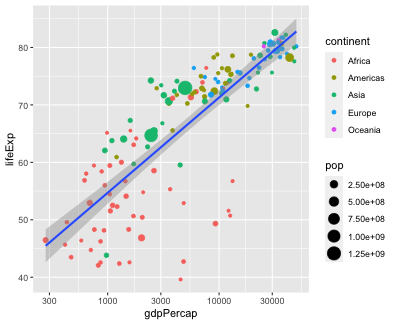
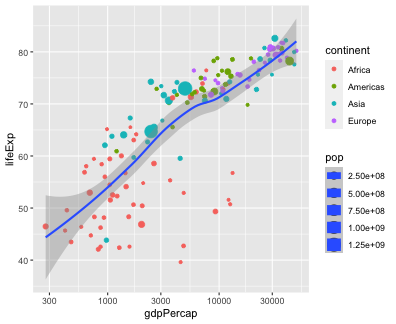
updating viz slides

diff --git a/slides/slides_12.html b/slides/slides_12.html
@@ -263,14 +263,61 @@ Basic components of plotting with `ggplot`:
 - mapping of attributes (columns of data) to aesthetics
 - geometric representations of data (`geom`s)
 
-&lt;br&gt;&lt;/br&gt;
+
+
+---
+
+class: inverse, middle, center
+
+# Quick detour: getting data into `R`
+
+---
+
+# Getting data into `R` (and `RStudio`)
+
+An interactive option: `Import Dataset` button in `Environment` pane of `RStudio`
 
 --
 
-A simple example: 
+But note it's showing you the code it's using! 
+
+(Live coding example.)
+
+---
+
+# Getting data into `R` (cont'd)
+
+Most commonly used functions: 
+
+- `read_csv()` and `read_rds()` in `readr` (`tidyverse`)
+- `readstata13::read.dta13()` for Stata files (`.dta`)
+- `readxl::read_excel()` for Excel files (`.xls`, `.xlsx`)
+- `load()` in base R for "R objects"
+
+All require "path" to file as argument. 
+
+--
+
+Sometimes data is a package, e.g. `babynames`, `gapminder`, `vdemdata` 
+
+--
+
+See Chapter 11 of R4DS and "Data Import" cheatsheet.
 
 
+---
 
+## A simple example
+
+Get data in: 
+
+
+```r
+gapminder_2007 &lt;- gapminder::gapminder %&gt;% 
+  filter(year == 2007 &amp; continent != "Oceania")   # will explain next week
+```
+
+Make a plot:
 
 
 ```r
@@ -295,7 +342,7 @@ To note:
 
 - the **arguments** to `ggplot()` say what the data is (`data = gapminder_2007`) and how attributes are mapped to aesthetics (`mapping = aes(x = gdpPercap, y = lifeExp)`)
 - `geom_point()` says "plot a point for each observation"
-- **layers** of plat linked with plus sign (`+`)
+- **layers** of plot linked with plus sign (`+`)
 
 
 ---
@@ -528,17 +575,41 @@ ggplot(data = gapminder_2007,
 
 ---
 
+# Adding a smoothing line
+
+`geom_smooth()` adds a "smoother". Let's try adding it!
+
+--
+
+
+```r
+ggplot(data = gapminder_2007, 
+       mapping = aes(x = gdpPercap, y = lifeExp,
+                     size = pop, col = continent)) +  
+  geom_point() +   
+  scale_x_log10() + 
+* geom_smooth()
+```
+
+&lt;img src="slides_12_files/figure-html/unnamed-chunk-14-1.png" style="display: block; margin: auto;" /&gt;
+
+Hmm.
+
+??? If you don't exclude Oceania, `ggplot` refuses to make a smoother using default settings because there are too few countries in Oceania.
+
+---
+
 # Inheritance of aesthetics 
 
 
 ```r
 ggplot(data = gapminder_2007, 
-       mapping = aes(x = gdpPercap, y = lifeExp)) +  
-* geom_point(aes(size = pop, col = continent)) +
+       mapping = aes(x = gdpPercap, y = lifeExp, size = pop)) +  
+* geom_point(aes(col = continent)) +
   scale_x_log10() 
 ```
 
-&lt;img src="slides_12_files/figure-html/unnamed-chunk-14-1.png" style="display: block; margin: auto;" /&gt;
+&lt;img src="slides_12_files/figure-html/unnamed-chunk-15-1.png" style="display: block; margin: auto;" /&gt;
 
 ---
 
@@ -548,13 +619,13 @@ ggplot(data = gapminder_2007,
 
 ```r
 ggplot(data = gapminder_2007, 
-       mapping = aes(x = gdpPercap, y = lifeExp)) +  
-  geom_point(aes(size = pop, col = continent)) + 
+       mapping = aes(x = gdpPercap, y = lifeExp, size = pop)) +  
+  geom_point(aes(col = continent)) + 
   scale_x_log10() +
 * geom_smooth()
 ```
 
-&lt;img src="slides_12_files/figure-html/unnamed-chunk-15-1.png" style="display: block; margin: auto;" /&gt;
+&lt;img src="slides_12_files/figure-html/unnamed-chunk-16-1.png" style="display: block; margin: auto;" /&gt;
 
 ---
 
@@ -564,13 +635,13 @@ ggplot(data = gapminder_2007,
 
 ```r
 ggplot(data = gapminder_2007, 
-       mapping = aes(x = gdpPercap, y = lifeExp)) +  
-  geom_point(aes(size = pop, col = continent)) + 
+       mapping = aes(x = gdpPercap, y = lifeExp, size = pop)) +  
+  geom_point(aes(col = continent)) + 
   scale_x_log10() +
 * geom_smooth(method = lm) # lm means "linear model"
 ```
 
-&lt;img src="slides_12_files/figure-html/unnamed-chunk-16-1.png" style="display: block; margin: auto;" /&gt;
+&lt;img src="slides_12_files/figure-html/unnamed-chunk-17-1.png" style="display: block; margin: auto;" /&gt;
 
 
 ???
@@ -591,7 +662,7 @@ ggplot(data = gapminder_2007,
 * facet_wrap(vars(continent))
 ```
 
-&lt;img src="slides_12_files/figure-html/unnamed-chunk-17-1.png" style="display: block; margin: auto;" /&gt;
+&lt;img src="slides_12_files/figure-html/unnamed-chunk-18-1.png" style="display: block; margin: auto;" /&gt;
 
 ---
 
@@ -605,7 +676,7 @@ ggplot(data = gapminder_2007,
   scale_x_log10()
 ```
 
-&lt;img src="slides_12_files/figure-html/unnamed-chunk-18-1.png" style="display: block; margin: auto;" /&gt;
+&lt;img src="slides_12_files/figure-html/unnamed-chunk-19-1.png" style="display: block; margin: auto;" /&gt;
 
 
 
@@ -621,7 +692,7 @@ ggplot(data = gapminder_2007,
   scale_x_log10()
 ```
 
-&lt;img src="slides_12_files/figure-html/unnamed-chunk-19-1.png" style="display: block; margin: auto;" /&gt;
+&lt;img src="slides_12_files/figure-html/unnamed-chunk-20-1.png" style="display: block; margin: auto;" /&gt;
 
 ---
 
